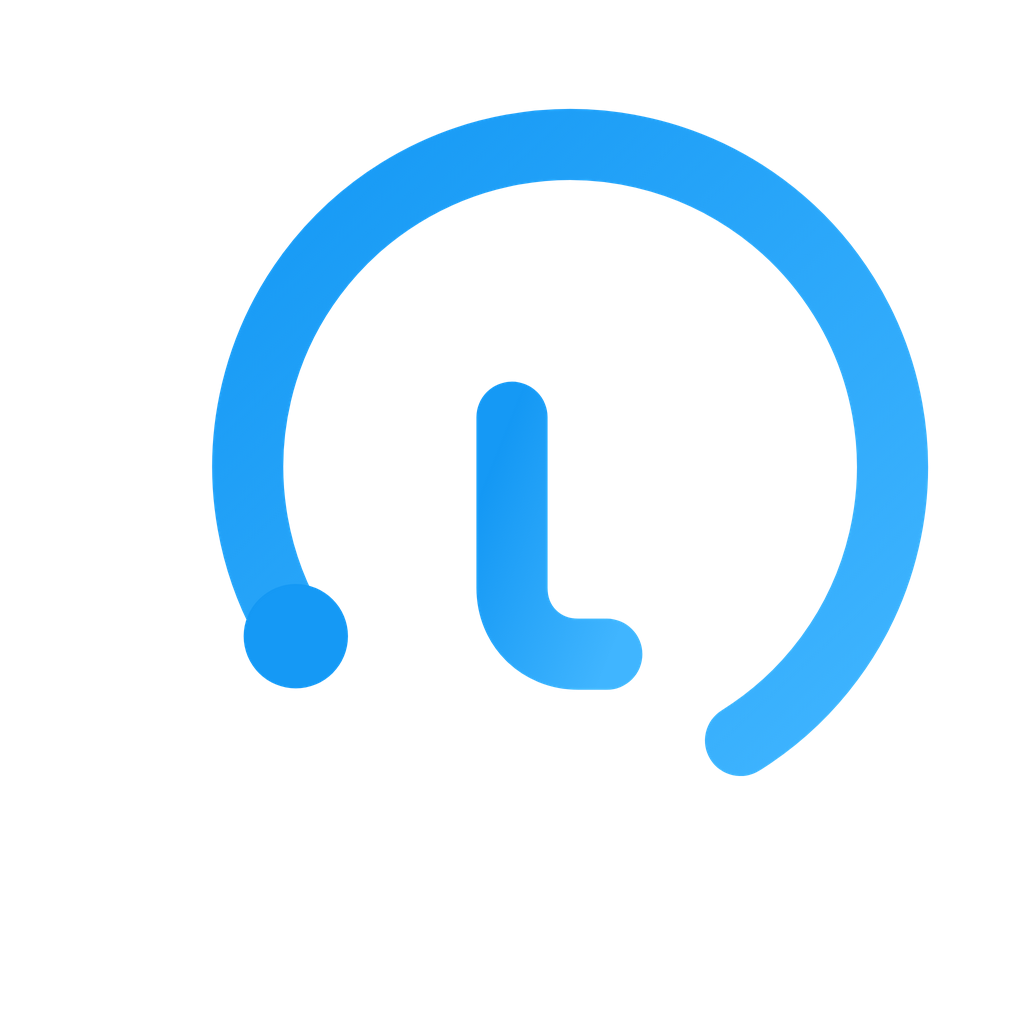
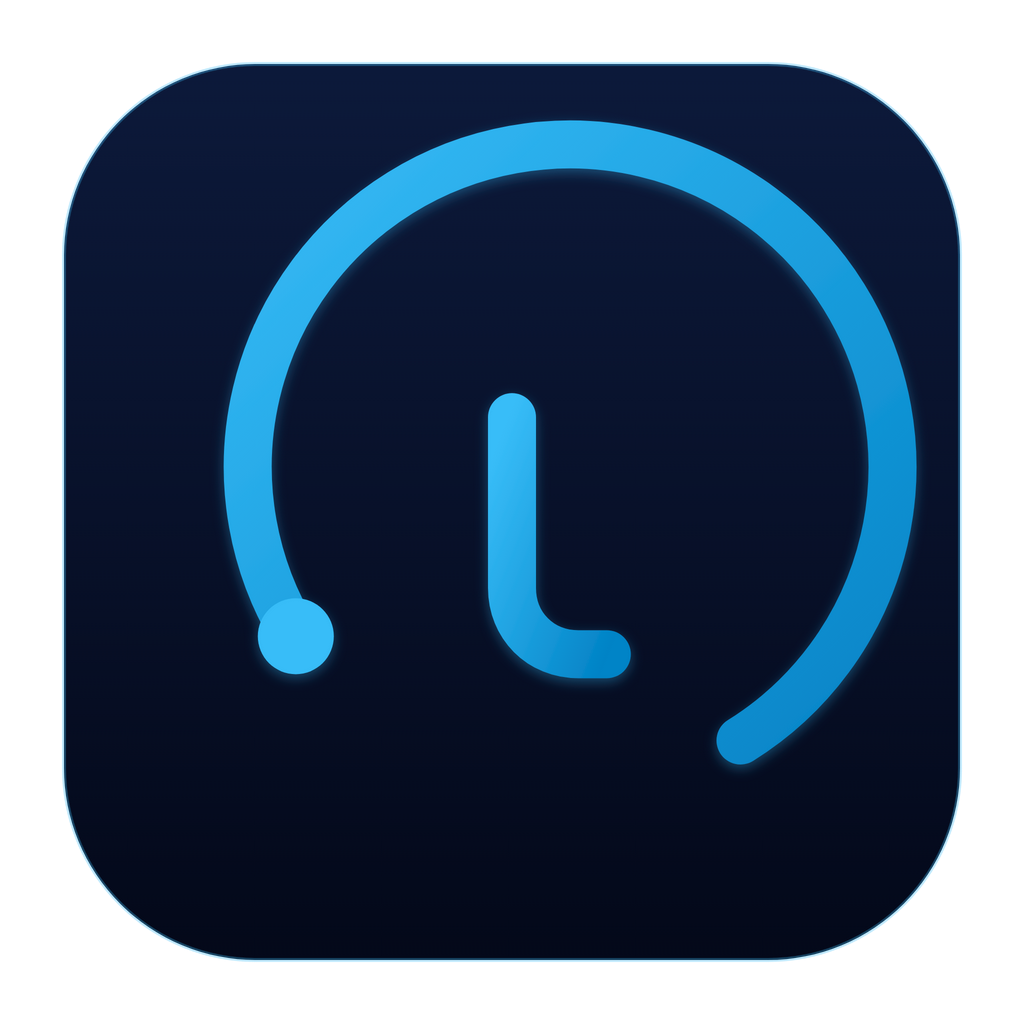
chore(release): prepare version 0.37.11

diff --git a/scripts/generate-transparent-icons.js b/scripts/generate-transparent-icons.js
@@ -10,38 +10,76 @@ const ICONS_DIR = path.join(ASSETS_DIR, 'icons');
 const BUILD_ICONS_DIR = path.join(ROOT, 'build', 'icons');
 const TEMP_HTML = path.join(ROOT, 'build', 'temp_icon_render.html');
 
-function buildLogoSvg(size = 1024) {
-  const scale = size / 108;
-  const strokeWidth = 7.5 * scale;
-  const dotR = 5.5 * scale;
-  
-  const pArc = `M ${31.2 * scale},${67.1 * scale} A ${34 * scale},${34 * scale} 0 1,1 ${78.1 * scale},${78.1 * scale}`;
-  const cxDot = 31.2 * scale;
-  const cyDot = 67.1 * scale;
-  
-  const pTopBar = `M ${41 * scale},${44 * scale} H ${67 * scale}`;
-  const pStem = `M ${54 * scale},${44 * scale} V ${62 * scale} c 0,${4 * scale} ${3 * scale},${7 * scale} ${7 * scale},${7 * scale} h ${3 * scale}`;
+function buildLogoSvg(size = 1024, isTray = false) {
+  const scale = size / 1024;
 
-  const primaryColor = '#1599F5';
-  const secondaryColor = '#40B5FF';
+  if (isTray) {
+    // Crisp standalone tray icon for OS menu bar / notification area
+    const s = size / 108;
+    const strokeWidth = 7.5 * s;
+    const dotR = 5.5 * s;
+
+    const pArc = `M ${31.2 * s},${67.1 * s} A ${34 * s},${34 * s} 0 1,1 ${78.1 * s},${78.1 * s}`;
+    const cxDot = 31.2 * s;
+    const cyDot = 67.1 * s;
+    const pTopBar = `M ${41 * s},${44 * s} H ${67 * s}`;
+    const pStem = `M ${54 * s},${44 * s} V ${62 * s} c 0,${4 * s} ${3 * s},${7 * s} ${7 * s},${7 * s} h ${3 * s}`;
+
+    return `<svg xmlns="http://www.w3.org/2000/svg" width="${size}" height="${size}" viewBox="0 0 ${size} ${size}">
+  <defs>
+    <linearGradient id="trayGrad" x1="0%" y1="0%" x2="100%" y2="100%">
+      <stop offset="0%" stop-color="#38BDF8" />
+      <stop offset="100%" stop-color="#0284C7" />
+    </linearGradient>
+  </defs>
+  <path d="${pArc}" fill="none" stroke="url(#trayGrad)" stroke-width="${strokeWidth}" stroke-linecap="round" />
+  <circle cx="${cxDot}" cy="${cyDot}" r="${dotR}" fill="#38BDF8" />
+  <path d="${pTopBar}" fill="none" stroke="url(#trayGrad)" stroke-width="${strokeWidth}" stroke-linecap="round" />
+  <path d="${pStem}" fill="none" stroke="url(#trayGrad)" stroke-width="${strokeWidth}" stroke-linecap="round" stroke-linejoin="round" />
+</svg>`;
+  }
+
+  // App Tile Icon: Sleek rounded squircle on transparent background
+  const pad = 64 * scale;
+  const tileSize = 896 * scale;
+  const rx = 192 * scale;
+
+  const strokeWidth = 48 * scale;
+  const dotR = 38 * scale;
+
+  const s = size / 108;
+  const pArc = `M ${31.2 * s},${67.1 * s} A ${34 * s},${34 * s} 0 1,1 ${78.1 * s},${78.1 * s}`;
+  const cxDot = 31.2 * s;
+  const cyDot = 67.1 * s;
+
+  const pTopBar = `M ${41 * s},${44 * s} H ${67 * s}`;
+  const pStem = `M ${54 * s},${44 * s} V ${62 * s} c 0,${4 * s} ${3 * s},${7 * s} ${7 * s},${7 * s} h ${3 * s}`;
 
   return `<svg xmlns="http://www.w3.org/2000/svg" width="${size}" height="${size}" viewBox="0 0 ${size} ${size}">
   <defs>
-    <linearGradient id="brandGradient" x1="0%" y1="0%" x2="100%" y2="100%">
-      <stop offset="0%" stop-color="${primaryColor}" />
-      <stop offset="100%" stop-color="${secondaryColor}" />
+    <linearGradient id="tileBg" x1="0%" y1="0%" x2="0%" y2="100%">
+      <stop offset="0%" stop-color="#0D1A3B" />
+      <stop offset="100%" stop-color="#04091A" />
     </linearGradient>
+    <linearGradient id="brandGradient" x1="0%" y1="0%" x2="100%" y2="100%">
+      <stop offset="0%" stop-color="#38BDF8" />
+      <stop offset="100%" stop-color="#0284C7" />
+    </linearGradient>
+    <filter id="emblemGlow" x="-20%" y="-20%" width="140%" height="140%">
+      <feDropShadow dx="0" dy="${4 * scale}" stdDeviation="${6 * scale}" flood-color="#38BDF8" flood-opacity="0.35"/>
+    </filter>
   </defs>
 
-  <!-- Outer Arc -->
-  <path d="${pArc}" fill="none" stroke="url(#brandGradient)" stroke-width="${strokeWidth}" stroke-linecap="round" />
+  <!-- Rounded Brand Squircle Tile (outer canvas background remains 100% transparent) -->
+  <rect x="${pad}" y="${pad}" width="${tileSize}" height="${tileSize}" rx="${rx}" fill="url(#tileBg)" stroke="rgba(56, 189, 248, 0.3)" stroke-width="${4 * scale}" />
 
-  <!-- Token Dot -->
-  <circle cx="${cxDot}" cy="${cyDot}" r="${dotR}" fill="${primaryColor}" />
-
-  <!-- Inner T Mark -->
-  <path d="${pTopBar}" fill="none" stroke="url(#brandGradient)" stroke-width="${strokeWidth}" stroke-linecap="round" />
-  <path d="${pStem}" fill="none" stroke="url(#brandGradient)" stroke-width="${strokeWidth}" stroke-linecap="round" stroke-linejoin="round" />
+  <!-- Logo Emblem -->
+  <g filter="url(#emblemGlow)">
+    <path d="${pArc}" fill="none" stroke="url(#brandGradient)" stroke-width="${strokeWidth}" stroke-linecap="round" />
+    <circle cx="${cxDot}" cy="${cyDot}" r="${dotR}" fill="#38BDF8" />
+    <path d="${pTopBar}" fill="none" stroke="url(#brandGradient)" stroke-width="${strokeWidth}" stroke-linecap="round" />
+    <path d="${pStem}" fill="none" stroke="url(#brandGradient)" stroke-width="${strokeWidth}" stroke-linecap="round" stroke-linejoin="round" />
+  </g>
 </svg>`;
 }
 
@@ -118,13 +156,13 @@ app.whenReady().then(async () => {
       }
     });
 
-    const main1024Png = await renderSvgToPng(win, buildLogoSvg(1024), 1024);
+    const main1024Png = await renderSvgToPng(win, buildLogoSvg(1024, false), 1024);
 
     fs.writeFileSync(path.join(ASSETS_DIR, 'icon.png'), main1024Png);
     fs.writeFileSync(path.join(ASSETS_DIR, 'icon-win.png'), main1024Png);
 
     // 44x44 high-DPI tray icon matching test assertion
-    const trayPng = await renderSvgToPng(win, buildLogoSvg(44), 44);
+    const trayPng = await renderSvgToPng(win, buildLogoSvg(44, true), 44);
     fs.writeFileSync(path.join(ICONS_DIR, 'tray-token-monitor.png'), trayPng);
 
     // Sizes for ICO container
@@ -132,12 +170,12 @@ app.whenReady().then(async () => {
     const icoItems = [];
 
     for (const sz of sizes) {
-      const pngBuf = await renderSvgToPng(win, buildLogoSvg(sz), sz);
+      const pngBuf = await renderSvgToPng(win, buildLogoSvg(sz, false), sz);
       fs.writeFileSync(path.join(BUILD_ICONS_DIR, `${sz}x${sz}.png`), pngBuf);
       icoItems.push({ size: sz, buffer: pngBuf });
     }
 
-    const sz512Png = await renderSvgToPng(win, buildLogoSvg(512), 512);
+    const sz512Png = await renderSvgToPng(win, buildLogoSvg(512, false), 512);
     fs.writeFileSync(path.join(BUILD_ICONS_DIR, '512x512.png'), sz512Png);
     fs.writeFileSync(path.join(BUILD_ICONS_DIR, '1024x1024.png'), main1024Png);
 
@@ -147,10 +185,10 @@ app.whenReady().then(async () => {
     win.destroy();
     if (fs.existsSync(TEMP_HTML)) fs.unlinkSync(TEMP_HTML);
 
-    console.log('Successfully generated transparent 1024x1024 PNGs, 44x44 tray icon, and multi-size icon.ico!');
+    console.log('Successfully generated crisp high-DPI squircle app icon and tray icon!');
     app.exit(0);
   } catch (err) {
-    console.error('Error generating transparent icons:', err);
+    console.error('Error generating icons:', err);
     if (fs.existsSync(TEMP_HTML)) fs.unlinkSync(TEMP_HTML);
     app.exit(1);
   }
